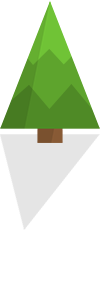
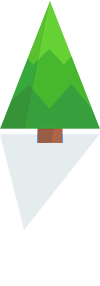
more types of trees, subtle parallax effect

diff --git a/core/src/com/vanjav/roadline/Controller.java b/core/src/com/vanjav/roadline/Controller.java
@@ -41,7 +41,7 @@ public class Controller {
         roadWidth = 0.5f * this.dpi;       // 0.5 inches
         lineWidth = roadWidth * 0.1f;      // 0.1 of road
         outlineWidth = roadWidth * 1.75f;  // 1.75 of road
-        biggestTreeWidth = 300;
+        biggestTreeWidth = 350;
 
         random = new Random();
 
@@ -163,7 +163,7 @@ public class Controller {
 
     private void genItems(float x, float y) {
         //trees
-        numItemsToAdd = random.nextInt(5);
+        numItemsToAdd = random.nextInt(7);
 
         for (i = 0; i < numItemsToAdd; i++) {
             addX = x-width/2 + random.nextFloat()*width/2;
@@ -171,7 +171,7 @@ public class Controller {
 
             if (!isPointOnOutline(addX, addY)) {
                 positionToInsert = binarySearchTreePointListByY(treePoints, addY);
-                treePoints.add(positionToInsert, new TreePointF(addX, addY, random.nextInt(5)));
+                treePoints.add(positionToInsert, new TreePointF(addX, addY, random.nextInt(8)));
             }
         }
     }
@@ -264,12 +264,12 @@ public class Controller {
         offsetX = -1*width*(deltaTimeSeconds/crossTime);
 
         if (roadPoints.size() > 0) {
-            roadPoints.getFirst().offset(offsetX, 0);
+            roadPoints.getFirst().offset(offsetX * (0.75f + 0.5f*((height - roadPoints.getFirst().y)/height)), 0);
             firstRoadPointToKeep = 0;
 
             for (l = 1; l < roadPoints.size(); l++) {
                 currPoint = roadPoints.get(l);
-                currPoint.offset(offsetX, 0);
+                currPoint.offset(offsetX * (0.75f + 0.5f*((height - currPoint.y)/height)), 0);
 
                 if (currPoint.x < 0 - outlineWidth)
                     firstRoadPointToKeep = l - 1;
@@ -283,7 +283,7 @@ public class Controller {
 
             for (l = 0; l < treePoints.size(); l++) {
                 currPoint = treePoints.get(l);
-                currPoint.offset(offsetX, 0);
+                currPoint.offset(offsetX * (0.75f + 0.5f*((height - currPoint.y)/height)), 0);
 
                 if (currPoint.x < -1 * width - biggestTreeWidth)
                     treePointsToRemove.add(currPoint);
@@ -295,12 +295,12 @@ public class Controller {
         if (linePoints.size() > 0) {
             pointToKeepFound = false;
 
-            linePoints.getFirst().offset(offsetX, 0);
+            linePoints.getFirst().offset(offsetX * (0.75f + 0.5f*((height - linePoints.getFirst().y)/height)), 0);
             firstLinePointToKeep = 0;
 
             for (l = 1; l < linePoints.size(); l++) {
                 currPoint = linePoints.get(l);
-                currPoint.offset(offsetX, 0);
+                currPoint.offset(offsetX * (0.75f + 0.5f*((height - currPoint.y)/height)), 0);
 
                 if (!pointToKeepFound) {
                     if (currPoint.x < 0 - lineWidth) {

diff --git a/core/src/com/vanjav/roadline/Roadline.java b/core/src/com/vanjav/roadline/Roadline.java
@@ -55,7 +55,7 @@ public class Roadline extends ApplicationAdapter {
 
         treeSprites = new LinkedList<Sprite>();
         Sprite tempSprite;
-        for (i = 0; i < 5; i++) {
+        for (i = 0; i < textureAtlas.getRegions().size; i++) {
         	tempSprite = textureAtlas.createSprite("tree"+i);
         	tempSprite.setSize(tempSprite.getWidth()/350f * (0.75f * (density*160f)), tempSprite.getHeight()/500f * (1.07f * (density*160f)));
         	treeSprites.add(tempSprite);
